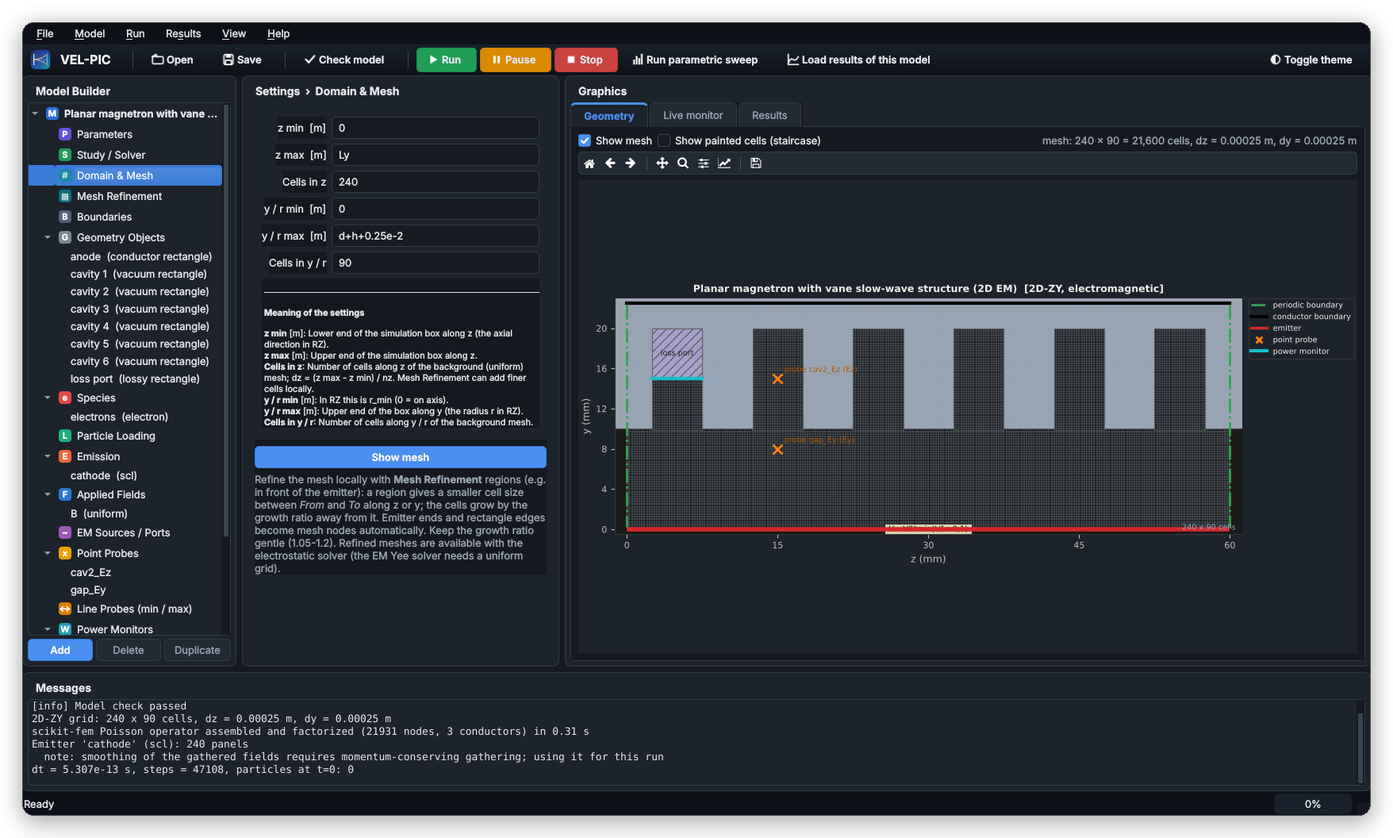
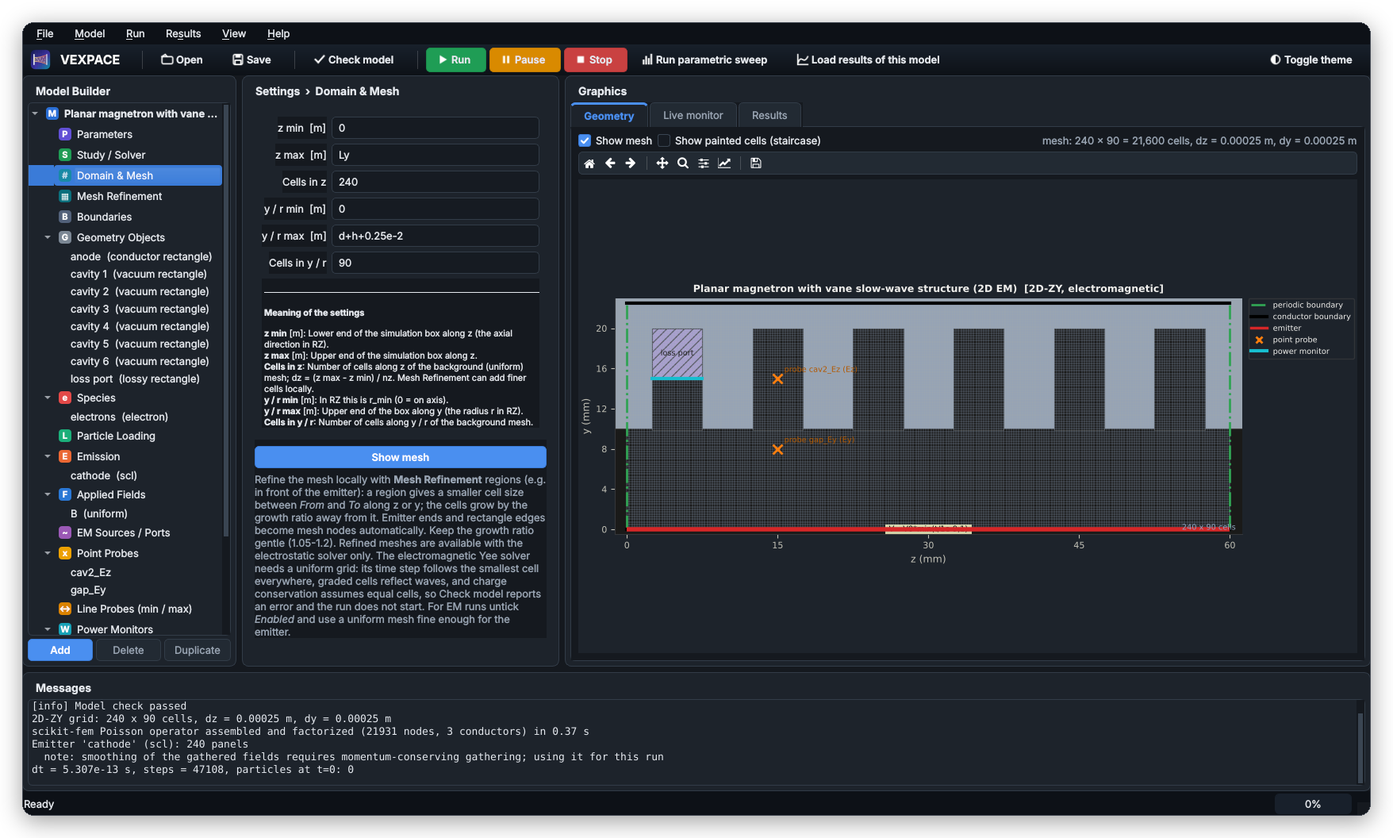
Name Update

Changed region(s): [[0.1845, 0.6562, 0.3998, 0.7812], [0.2153, 0.0625, 0.6765, 0.0938], [0.0, 0.0625, 0.1845, 0.0938]]

diff --git a/benchmarks/warpx_compare/compare_warpx.py b/benchmarks/warpx_compare/compare_warpx.py
@@ -2,7 +2,7 @@
 
 Set WARPX_BIN to the folder containing the WarpX executables (warpx.1d.*, warpx.rz.*), e.g.
     WARPX_BIN=~/src/warpx/build/bin python benchmarks/warpx_compare/compare_warpx.py
-The same physical problems are run with VEL-PIC and WarpX:
+The same physical problems are run with VEXPACE and WarpX:
     A  1D ES two-stream instability            (field-energy history)
     B  1D ES Pierce diode at J_CL               (potential profile)
     C  RZ ES space-charge beam expansion         (beam edge radius vs z)
@@ -120,7 +120,7 @@ diag1.fields_to_plot = Ez
     d = run_warpx("1d", "two_stream", wx)
     fe = np.loadtxt(os.path.join(d, "diags", "reducedfiles", "FE.txt"))
     tw, Ww = fe[:, 1], fe[:, 2]
-    # VEL-PIC
+    # VEXPACE
     m = new_model("1D-Z", "electrostatic")
     m["domain"].update(z_min="0", z_max=str(float(L)), nz="64")
     for s in ("z_min", "z_max"):
@@ -140,11 +140,11 @@ diag1.fields_to_plot = Ez
     gw, _ = fit_growth(tw, np.sqrt(Ww), 1e-3, 0.2)
     fig, ax = plt.subplots(figsize=(5.5, 3.8))
     ax.semilogy(tw * wpb, Ww, "k-", lw=2, label="WarpX")
-    ax.semilogy(tp * wpb, Wp, "r--", lw=1.5, label="VEL-PIC")
+    ax.semilogy(tp * wpb, Wp, "r--", lw=1.5, label="VEXPACE")
     ax.set_xlabel("t w_pb")
     ax.set_ylabel("field energy (J/m^2)")
     ax.legend()
-    ax.set_title("Two-stream: WarpX vs VEL-PIC")
+    ax.set_title("Two-stream: WarpX vs VEXPACE")
     sat_p, sat_w = Wp.max(), Ww.max()
     return record("16_warpx_two_stream", "WarpX comparison A: 1D ES two-stream instability",
                   [row("growth rate gamma/w_pb  (WarpX reference)", gp / wpb, gw / wpb, 0.03),
@@ -194,7 +194,7 @@ diag1.fields_to_plot = Ez rho phi
     dd = run_warpx("1d", "pierce", wx)
     f, (zc,), _ = last_plotfile(dd)
     phiw = f["phi"]
-    # VEL-PIC: beam emitter with zero energy at J_CL
+    # VEXPACE: beam emitter with zero energy at J_CL
     m = new_model("1D-Z", "electrostatic")
     m["domain"].update(z_min="0", z_max=str(float(d)), nz=str(nz))
     m["boundaries"]["z_max"]["voltage"] = str(float(V))
@@ -210,7 +210,7 @@ diag1.fields_to_plot = Ez rho phi
     fig, ax = plt.subplots(figsize=(5.5, 3.8))
     ax.plot(zp * 1e3, th, "k-", lw=2, label="theory V (z/d)^{4/3}")
     ax.plot(zc * 1e3, phiw, "b--", label="WarpX")
-    ax.plot(zp * 1e3, phip, "r:", lw=2, label="VEL-PIC")
+    ax.plot(zp * 1e3, phip, "r:", lw=2, label="VEXPACE")
     ax.set_xlabel("z (mm)")
     ax.set_ylabel("phi (V)")
     ax.legend()
@@ -275,7 +275,7 @@ diag1.fields_to_plot = rho
     den = (rho * rc[:, None]).sum(axis=0)
     with np.errstate(invalid="ignore", divide="ignore"):
         aw = np.sqrt(2 * num / den)
-    # VEL-PIC
+    # VEXPACE
     import bench_beam
     m, p = bench_beam._beam_model(False)
     m["simulation"].update(n_steps=str(nstep), t_end="1", dt=str(float(dt)))
@@ -289,13 +289,13 @@ diag1.fields_to_plot = rho
     ok = np.isfinite(ap) & np.isfinite(awi) & (zcc > 0.01) & (zcc < 0.19)
     fig, ax = plt.subplots(figsize=(6, 3.8))
     ax.plot(zc * 100, aw * 1e3, "b-", label="WarpX (from rho)")
-    ax.plot(zcc * 100, ap * 1e3, "ro", ms=3, label="VEL-PIC")
+    ax.plot(zcc * 100, ap * 1e3, "ro", ms=3, label="VEXPACE")
     zz = np.linspace(0, Lz, 200)
     ax.plot(zz * 100, env.sol(zz)[0] * 1e3, "k--", label="envelope equation")
     ax.set_xlabel("z (cm)")
     ax.set_ylabel("edge radius (mm)")
     ax.legend()
-    ax.set_title("RZ beam expansion: WarpX vs VEL-PIC")
+    ax.set_title("RZ beam expansion: WarpX vs VEXPACE")
     return record("18_warpx_rz_beam", "WarpX comparison C: RZ ES space-charge beam expansion",
                   [row("max |a_PIC/a_WarpX - 1| over z", np.abs(ap[ok] / awi[ok] - 1).max(), 0.0, 0.05,
                        absolute=True)], fig)
@@ -373,12 +373,12 @@ diag1.fields_to_plot = Ez
     Ep = np.interp(zc, zp, Ezp)
     fig, ax = plt.subplots(figsize=(6.5, 3.8))
     ax.plot((zc - zhead) / lp, Ezw / Eth, "k-", lw=2, label="WarpX")
-    ax.plot((zp - zhead) / lp, Ezp / Eth, "r--", label="VEL-PIC")
+    ax.plot((zp - zhead) / lp, Ezp / Eth, "r--", label="VEXPACE")
     ax.set_xlim(-3.5, 0.5)
     ax.set_xlabel("(z - z_head)/lambda_p")
     ax.set_ylabel("E_z / E_linear")
     ax.legend()
-    ax.set_title("Beam-driven wake: WarpX vs VEL-PIC")
+    ax.set_title("Beam-driven wake: WarpX vs VEXPACE")
     diff = np.abs(Ep[sel] - Ezw[sel]).max() / Eth
     return record("19_warpx_wakefield", "WarpX comparison D: 1D EM beam-driven plasma wakefield",
                   [row("max |Ez_PIC - Ez_WarpX| / E_lin behind bunch", diff, 0.0, 0.08, absolute=True),

diff --git a/benchmarks/warpx_compare/compare_crossed_field.py b/benchmarks/warpx_compare/compare_crossed_field.py
@@ -1,6 +1,6 @@
 """Code-to-code comparison with WarpX: smooth-bore magnetron diodes (crossed-field gaps).
 
-    E  planar crossed-field gap (2D: WarpX XZ, VEL-PIC ZY), B below and above the Hull cutoff
+    E  planar crossed-field gap (2D: WarpX XZ, VEXPACE ZY), B below and above the Hull cutoff
     F  cylindrical (coaxial) crossed-field gap (RZ), inner cathode, axial B, below and above the
        cylindrical Hull cutoff of Lovelace & Ott
 
@@ -125,7 +125,7 @@ PN.intervals = 20
         phiw = f["phi"]
         phiw = phiw.mean(axis=0) if phiw.shape[0] == len(xc) else phiw.mean(axis=1)
         tw, Nw = _warpx_count(dd)
-        # VEL-PIC (ZY; out-of-plane component x = -y of WarpX XZ)
+        # VEXPACE (ZY; out-of-plane component x = -y of WarpX XZ)
         m = new_model("2D-ZY", "electrostatic")
         m["domain"].update(z_min="0", z_max=_r(d), nz=str(nz), y_min="0", y_max=_r(Lx), ny=str(nx))
         m["boundaries"]["z_min"].update(field="conductor", voltage="0")
@@ -255,14 +255,14 @@ def _report(name, title, res, prm, xlabel, Bname, notes):
         late_p = o["tp"] > 0.45 * o["tp"][-1]
         Nw, Np = o["Nw"][late_w].mean(), o["Np"][late_p].mean()
         state = "insulated" if r > 1 else "conducting"
-        rows.append(row(f"B = {r:g} {Bname} ({state}): max |phi_VEL-PIC - phi_WarpX| / V", dphi, 0.0, 0.01,
+        rows.append(row(f"B = {r:g} {Bname} ({state}): max |phi_VEXPACE - phi_WarpX| / V", dphi, 0.0, 0.01,
                         absolute=True))
-        rows.append(row(f"B = {r:g} {Bname} ({state}): electrons in the gap, VEL-PIC / WarpX", Np / Nw, 1.0, 0.03))
+        rows.append(row(f"B = {r:g} {Bname} ({state}): electrons in the gap, VEXPACE / WarpX", Np / Nw, 1.0, 0.03))
         c = f"C{k}"
         ax[0].plot(o["zc"] * 1e3, o["phiw"] / V, "-", color=c, lw=2, alpha=0.5, label=f"WarpX, B = {r:g} {Bname}")
-        ax[0].plot(o["zp"] * 1e3, o["phip"] / V, ":", color=c, lw=2, label=f"VEL-PIC, B = {r:g} {Bname}")
+        ax[0].plot(o["zp"] * 1e3, o["phip"] / V, ":", color=c, lw=2, label=f"VEXPACE, B = {r:g} {Bname}")
         ax[1].plot(o["tw"] * 1e9, o["Nw"], "-", color=c, lw=2, alpha=0.5, label=f"WarpX, B = {r:g} {Bname}")
-        ax[1].plot(o["tp"] * 1e9, o["Np"], ":", color=c, lw=2, label=f"VEL-PIC, B = {r:g} {Bname}")
+        ax[1].plot(o["tp"] * 1e9, o["Np"], ":", color=c, lw=2, label=f"VEXPACE, B = {r:g} {Bname}")
     ax[0].set_xlabel(xlabel)
     ax[0].set_ylabel("phi / V")
     ax[0].legend(fontsize=7)
@@ -281,7 +281,7 @@ def main(which=("planar", "coax")):
                 res, prm, "z (mm)", "B_H",
                 f"V = 10 kV, d = 5 mm, Hull field B_H = {prm['BH'] * 1e3:.2f} mT (relativistic planar). Electrons "
                 f"injected at J = 0.25 J_CL with 2 eV normal energy, periodic 8-cell strip along the cathode. "
-                f"WarpX 26.09 2D (XZ, ES labframe, use_filter = 0) vs VEL-PIC 2D-ZY, same dt, shape, pusher and "
+                f"WarpX 26.09 2D (XZ, ES labframe, use_filter = 0) vs VEXPACE 2D-ZY, same dt, shape, pusher and "
                 f"energy-conserving gather. Above B_H all electrons return to the cathode (twice the charge in "
                 f"the gap, the potential depressed near the cathode). Compared after the start-up, t = 1-2.2 ns, while the "
                 f"insulated hub is still laminar (later it develops the 2D diocotron/turbulent hub in both codes).")
@@ -293,7 +293,7 @@ def main(which=("planar", "coax")):
                 f"Coaxial gap, inner cathode a = 5 mm, anode b = 10 mm, V = 10 kV, axial B. Hull field "
                 f"B* = (m c / e d_e) sqrt(gamma^2 - 1), d_e = (b^2 - a^2)/(2b) (Lovelace & Ott 1974) = "
                 f"{prm['Bs'] * 1e3:.2f} mT. Electrons injected radially at J = 0.25 J_CL(b - a), 2 eV. WarpX 26.09 RZ "
-                f"(r_min = a, ES labframe) vs VEL-PIC 2D-RZ (annular domain).")
+                f"(r_min = a, ES labframe) vs VEXPACE 2D-RZ (annular domain).")
 
 
 if __name__ == "__main__":

diff --git a/picstudio/gui/main_window.py b/picstudio/gui/main_window.py
@@ -16,7 +16,7 @@ from PySide6.QtWidgets import (QApplication, QCheckBox, QFileDialog, QFrame, QHB
                                QScrollArea, QSplitter, QTabWidget, QTreeWidget, QTreeWidgetItem, QVBoxLayout,
                                QWidget)
 
-from .. import AFFILIATION, APP_NAME, APP_TAGLINE, AUTHOR, CITATION, COPYRIGHT, DOI, LICENSE, URL, __version__
+from .. import AFFILIATION, APP_NAME, APP_SUBTITLE, APP_TAGLINE, AUTHOR, CITATION, COPYRIGHT, DOI, LICENSE, URL, __version__
 from ..model import model as M
 from ..model import schema as S
 from ..post import plotting as P
@@ -267,7 +267,7 @@ class MainWindow(QMainWindow):
         self._act(h, "User guide", lambda: self.show_guide("USER_GUIDE.md"))
         self._act(h, "Numerical methods", lambda: self.show_guide("THEORY.md"))
         self._act(h, "Validation report", self.show_validation)
-        self._act(h, "How to cite VEL-PIC", self.cite)
+        self._act(h, "How to cite VEXPACE", self.cite)
         self._act(h, "About", self.about)
 
     # ======================================================================
@@ -1012,7 +1012,7 @@ class MainWindow(QMainWindow):
         box.setWindowTitle(f"About {APP_NAME}")
         from PySide6.QtGui import QIcon
         box.setIconPixmap(QIcon(logo).pixmap(96, 96))
-        box.setText(f"<h2>{APP_NAME} {__version__}</h2><p><b>{APP_TAGLINE}</b></p>"
+        box.setText(f"<h2>{APP_NAME} {__version__}</h2><p><b>{APP_TAGLINE}</b><br>{APP_SUBTITLE}</p>"
                     "<p>Particle-in-cell simulation of diodes, beams, plasmas and vacuum electron devices in 1D (z), "
                     "2D Cartesian (z, y) and 2D axisymmetric (z, r) geometry. Electrostatic solver: finite elements "
                     "(scikit-fem). Electromagnetic solver: Yee FDTD with charge-conserving deposition.</p>"
@@ -1020,22 +1020,22 @@ class MainWindow(QMainWindow):
                     f"<p>{COPYRIGHT}. Released under the {LICENSE}.<br>"
                     "Particle kernels follow WarpX (BSD-3-Clause-LBNL); see THIRD_PARTY_NOTICES.md.</p>"
                     f"<p><a href='{URL}'>{URL}</a><br>DOI: <a href='https://doi.org/{DOI}'>{DOI}</a></p>"
-                    "<p>If you use VEL-PIC in published work, please cite it (Help &rarr; How to cite VEL-PIC).</p>")
+                    "<p>If you use VEXPACE in published work, please cite it (Help &rarr; How to cite VEXPACE).</p>")
         box.setTextFormat(Qt.RichText)
         box.exec()
 
     def cite(self):
         text = CITATION
-        bib = ("@software{faisal_velpic,\n"
+        bib = ("@software{faisal_vexpace,\n"
                "  author    = {Faisal, Md Arifuzzaman},\n"
-               "  title     = {{VEL-PIC}: Vacuum Electrodynamics and Laser Particle-in-Cell code},\n"
+               "  title     = {{VEXPACE}: An Open-Source Particle-in-Cell Simulation Framework for Plasma and Vacuum Electronics},\n"
                "  year      = {2026},\n"
                "  publisher = {Zenodo},\n"
                f"  doi       = {{{DOI}}},\n"
                f"  url       = {{https://doi.org/{DOI}}}\n}}")
         box = QMessageBox(self)
-        box.setWindowTitle("How to cite VEL-PIC")
-        box.setText("<p>If VEL-PIC contributes to published work, please cite:</p>"
+        box.setWindowTitle("How to cite VEXPACE")
+        box.setText("<p>If VEXPACE contributes to published work, please cite:</p>"
                     f"<p>{text}</p><p>BibTeX:</p><pre>{bib}</pre>")
         box.setTextFormat(Qt.RichText)
         box.setTextInteractionFlags(Qt.TextSelectableByMouse)

diff --git a/examples/make_examples.py b/examples/make_examples.py
@@ -1,4 +1,4 @@
-"""Generate the example projects (*.pic.json) shipped with VEL-PIC.
+"""Generate the example projects (*.pic.json) shipped with VEXPACE.
 
     python examples/make_examples.py
 
@@ -681,7 +681,7 @@ def beam_expansion_zy():
     m["description"] = ("A 10 keV, 1 A/m electron sheet beam (half-width 0.5 mm) enters a field-free, grounded drift "
                         "region. With no focusing field it spreads under its own space charge. The edge of a uniform sheet "
                         "feels a constant field, so y_edge = a0 + K z^2/2 with K = e I/(2 eps0 m gamma^3 v^3) = 0.047 /m: "
-                        "the rms half-width grows from 0.289 mm to 0.398 mm at z = 9 cm (VEL-PIC: 0.397 mm). Use "
+                        "the rms half-width grows from 0.289 mm to 0.398 mm at z = 9 cm (VEXPACE: 0.397 mm). Use "
                         "Results > Beam envelope.")
     m["parameters"] = {"V0": "10e3", "I": "1", "a0": "0.5e-3", "Lz": "0.1", "Ly": "6e-3"}
     m["domain"].update(z_min="0", z_max="Lz", nz="200", y_min="-Ly", y_max="Ly", ny="96")
@@ -808,7 +808,7 @@ def two_cylinder_lens_rz():
                         "Laplace solution (scikit-fem, r-weighted weak form) on a mesh refined at the gap and the "
                         "tube walls. The axial potential phi(z) and field E_z(z) are recorded by line probes. "
                         "Reference: the exact series for two coaxial cylinders with a linear potential across the "
-                        "gap (Goddard 1946; Cook & Heddle 1976); VEL-PIC agrees with it to 3e-4 V2 along the axis.")
+                        "gap (Goddard 1946; Cook & Heddle 1976); VEXPACE agrees with it to 3e-4 V2 along the axis.")
     m["parameters"] = {"V1": "0", "V2": "1e3", "R": "10e-3", "g": "0.2*R", "t": "0.1*R", "L": "6*R", "hf": "0.1e-3"}
     m["domain"].update(z_min="-L", z_max="L", nz="240", y_min="0", y_max="1.5*R", ny="60")
     bset(m, "z_min", field="conductor", voltage="V1", name="entrance")

diff --git a/picstudio/__init__.py b/picstudio/__init__.py
@@ -1,4 +1,4 @@
-"""VEL-PIC - Vacuum Electrodynamics and Laser Particle-in-Cell (Python package ``picstudio``).
+"""VEXPACE - Virtual Experiments in Plasma and Computational Electrodynamics (Python package ``picstudio``).
 
 A particle-in-cell code for 1D (z), 2D Cartesian (z,y) and 2D axisymmetric (z,r) electrostatic and
 electromagnetic simulations.
@@ -12,16 +12,17 @@ Quick use from Python::
     sim.run()
 """
 __version__ = "1.3.0"
-APP_NAME = "VEL-PIC"
-APP_TAGLINE = "Vacuum Electrodynamics and Laser Particle-in-Cell"
+APP_NAME = "VEXPACE"
+APP_TAGLINE = "Virtual Experiments in Plasma and Computational Electrodynamics"
+APP_SUBTITLE = "An Open-Source Particle-in-Cell Simulation Framework for Plasma and Vacuum Electronics"
 AUTHOR = "Md Arifuzzaman Faisal"
 AFFILIATION = "Department of Nuclear Engineering and Radiological Sciences, University of Michigan, Ann Arbor, MI, USA"
 COPYRIGHT = "Copyright (c) 2026 Md Arifuzzaman Faisal"
 LICENSE = "BSD 3-Clause License"
-URL = "https://github.com/faisal-um-ners/VEL-PIC"
+URL = "https://github.com/faisal-um-ners/VEXPACE"
 DOI = "10.5281/zenodo.23512470"          # Zenodo concept DOI: all versions, resolves to the latest release
-CITATION = ("Faisal, M. A. (2026). VEL-PIC: Vacuum Electrodynamics and Laser Particle-in-Cell code "
-            "[Computer software]. Zenodo. https://doi.org/10.5281/zenodo.23512470")
+CITATION = ("Faisal, M. A. (2026). VEXPACE: An Open-Source Particle-in-Cell Simulation Framework for Plasma and "
+            "Vacuum Electronics [Computer software]. Zenodo. https://doi.org/10.5281/zenodo.23512470")
 
 
 def load_model(path):

diff --git a/picstudio/fields/circuit.py b/picstudio/fields/circuit.py
@@ -3,7 +3,7 @@
 In a Yee FDTD solver a PEC conductor is *isolated*: its total charge only changes when particles
 are absorbed on it or emitted from it, so as current flows from cathode to anode the gap capacitor
 discharges and the electrode voltages drift.  A real diode or magnetron is driven by a power supply
-that keeps every electrode at its potential.  VEL-PIC models that supply as an ideal (zero-impedance)
+that keeps every electrode at its potential.  VEXPACE models that supply as an ideal (zero-impedance)
 voltage source on each conductor:
 
   * the applied electrode voltages are carried by the electrostatic Laplace solution, superposed on

diff --git a/picstudio/gui/theme.py b/picstudio/gui/theme.py
@@ -1,4 +1,4 @@
-"""Visual theme of the VEL-PIC GUI: Qt style sheets (light / dark), icons and the matching
+"""Visual theme of the VEXPACE GUI: Qt style sheets (light / dark), icons and the matching
 matplotlib style.  Categorical colours follow a validated colour-blind-safe palette."""
 from __future__ import annotations
 

diff --git a/picstudio/model/schema.py b/picstudio/model/schema.py
@@ -1,4 +1,4 @@
-"""Model schema: every input of VEL-PIC is described here.
+"""Model schema: every input of VEXPACE is described here.
 
 The same description drives
   * default values and validation (``picstudio.model.model``),

diff --git a/docs/COMPARISON.md b/docs/COMPARISON.md
@@ -1,10 +1,10 @@
-# VEL-PIC compared with other PIC codes
+# VEXPACE compared with other PIC codes
 
 ## Feature overview
 
 The entries for the other codes reflect their public documentation as generally known. Check each code's own documentation for current details.
 
-| | **VEL-PIC** | WarpX | XOOPIC | MAGIC (2D) |
+| | **VEXPACE** | WarpX | XOOPIC | MAGIC (2D) |
 |---|---|---|---|---|
 | Language / install | Pure Python + Numba, `pip install` | C++/AMReX (+ Python PICMI), compiled | C++, X11 GUI, compiled | Commercial, Windows |
 | Geometries | 1D-Z, 2D-ZY, 2D-RZ | 1D, 2D-XZ, RZ (multi-mode), 3D | 2D XY, RZ | 2D XY / RZ / Rθ, 3D (MAGIC3D) |
@@ -19,24 +19,24 @@ The entries for the other codes reflect their public documentation as generally 
 
 ## Algorithm-by-algorithm comparison with WarpX
 
-WarpX is open source (BSD-3-Clause-LBNL). VEL-PIC uses its algorithms as the reference wherever the two codes overlap. The particle kernels are line-by-line Python/Numba translations of WarpX's, and the license notice is kept in `picstudio/particles/kernels.py`. The table compares VEL-PIC with the WarpX 26.09 source (`Source/…`).
+WarpX is open source (BSD-3-Clause-LBNL). VEXPACE uses its algorithms as the reference wherever the two codes overlap. The particle kernels are line-by-line Python/Numba translations of WarpX's, and the license notice is kept in `picstudio/particles/kernels.py`. The table compares VEXPACE with the WarpX 26.09 source (`Source/…`).
 
-| Component | WarpX | VEL-PIC | Verdict |
+| Component | WarpX | VEXPACE | Verdict |
 |---|---|---|---|
 | Yee FDTD, Cartesian 1D/2D | `EvolveB/E.cpp`, `CartesianYeeAlgorithm.H` | `fields/fdtd.py`, `fdtd_kernels.py` | **identical** (same staggering and stencils; ZY uses a left-handed (z, y, x) basis with matching curl signs) |
 | Yee FDTD, RZ m = 0, off axis | `CylindricalYeeAlgorithm.H` (`UpwardDrr_over_r`, `DownwardDrr_over_r`) | same kernels, `rz=True` | **identical** |
-| RZ on-axis E_z | 4·B_θ/dr with the π·dr²/3 axis volume | 3·B_θ/dr with the same volume (Verboncoeur 2001, exact discrete Gauss law on the axis); 4 if *RZ axis volume correction* is off | **different, documented**: VEL-PIC keeps the Gauss-consistent factor |
-| Loop order | push, deposit, filter J, B½, E, B½ (`OneStep_nosub`) | push, boundaries, emission, deposit, (filter J), B½, E, B½ | **equivalent**. WarpX applies particle boundaries/injection after the field solve, VEL-PIC before deposition, so absorbed particles deposit up to the wall. |
-| Time step, EM | `ComputeDt`, RZ uses the 1.2105/dr² limit, cfl 0.999 | same formulas (RZ 1.2105/dr² term), default cfl 0.95 | **identical** formula; VEL-PIC's default CFL is more conservative |
-| Esirkepov current deposition (1D, 2D, RZ) | `doEsirkepovDepositionShapeN` + RZ volume scaling | `kernels.esirkepov_*` | **identical** for linear shape (VEL-PIC: linear/CIC only) |
+| RZ on-axis E_z | 4·B_θ/dr with the π·dr²/3 axis volume | 3·B_θ/dr with the same volume (Verboncoeur 2001, exact discrete Gauss law on the axis); 4 if *RZ axis volume correction* is off | **different, documented**: VEXPACE keeps the Gauss-consistent factor |
+| Loop order | push, deposit, filter J, B½, E, B½ (`OneStep_nosub`) | push, boundaries, emission, deposit, (filter J), B½, E, B½ | **equivalent**. WarpX applies particle boundaries/injection after the field solve, VEXPACE before deposition, so absorbed particles deposit up to the wall. |
+| Time step, EM | `ComputeDt`, RZ uses the 1.2105/dr² limit, cfl 0.999 | same formulas (RZ 1.2105/dr² term), default cfl 0.95 | **identical** formula; VEXPACE's default CFL is more conservative |
+| Esirkepov current deposition (1D, 2D, RZ) | `doEsirkepovDepositionShapeN` + RZ volume scaling | `kernels.esirkepov_*` | **identical** for linear shape (VEXPACE: linear/CIC only) |
 | J filter | bilinear 1-2-1, on by default in Cartesian EM (`warpx.use_filter`) | *Current filter passes* (`current_filter`), default 0 | **identical** when enabled (benchmark 29; Gauss law exact for the filtered charge, unit test) |
 | Field gather | `doGatherShapeN`, energy-conserving (Galerkin) by default | `gather_ec_yee_*` (EM default), `gather_nodal_*` | **identical** in EM. ES default is momentum-conserving: the Gauss-law SCL emitter is 2–4 % more accurate with it (see THEORY §3); EC is available. |
 | Pushers Boris / Vay / Higuera–Cary, −dt/2 start, RZ rotation | `UpdateMomentum*.H`, `UpdatePosition.H`, `PushP(-dt/2)` | `kernels._momentum`, `push_fields_*` | **identical** (benchmark 26: 1e-8…1e-15) |
 | Field boundaries | PEC (`WarpX_PEC.cpp`), periodic, split-field PML outside the domain (not in RZ FDTD), Silver–Müller | PEC, PMC, periodic; graded matched-loss absorbing layer inside the domain (also in RZ) | PEC/periodic **equivalent**; absorber **different** (more reflection at oblique incidence than a PML; benchmark 11) |
-| Particle boundaries | absorb, reflect, periodic, thermal (`ParticleBoundaries_K.H`) | absorb (with the current deposited up to the wall), reflect, periodic | **equivalent** (no thermal reflection in VEL-PIC) |
+| Particle boundaries | absorb, reflect, periodic, thermal (`ParticleBoundaries_K.H`) | absorb (with the current deposited up to the wall), reflect, periodic | **equivalent** (no thermal reflection in VEXPACE) |
 | Laser antenna | antenna macro-particles depositing J (`LaserParticleContainer`), Gaussian profile with 1/e field duration, cos phase | current sheet J = −2ε0·c·E at a node (`sources/em_sources.py`), FWHM-intensity duration, sin phase | **different implementation**, same emitted sheet strength. Convert τ_WarpX = τ_FWHM/√(2 ln 2) when comparing. |
 | Electrostatic solver | MLMG finite differences (5-point) | scikit-fem FEM (Q1, r-weighted), direct LU, conductors/dielectrics painted | **different** (both 2nd order; benchmarks 01, 17, 18 agree with WarpX) |
-| Emission | flux injection only (`AddPlasmaFlux`) | Gauss-law SCL, Fowler–Nordheim, thermionic + Schottky, photo, beam (charge-conserving) | **VEL-PIC only** |
+| Emission | flux injection only (`AddPlasmaFlux`) | Gauss-law SCL, Fowler–Nordheim, thermionic + Schottky, photo, beam (charge-conserving) | **VEXPACE only** |
 | Initial fields | zero unless `initialize_self_fields` | ES: Poisson; EM: Poisson-initialised by default (`initial_field = none` for WarpX-like start) | **different default**, selectable |
 
 A complete line-by-line translation of WarpX is not possible: WarpX is about 300 000 lines of C++ on AMReX (adaptive mesh refinement, GPU kernels, distributed boxes). The physics kernels above are what decides the numerics, and they match.
@@ -55,7 +55,7 @@ Identical problems were run with WarpX 26.09, built from source with the 1D, 2D 
 | planar smooth-bore magnetron gap (2D, B = 0.6 and 1.3 B_H) | potential across the gap, electrons in the gap | ≤ 1.2e-4 of V, ≤ 0.02 % |
 | cylindrical (coaxial) smooth-bore magnetron gap (RZ, B = 0.6 and 1.3 B*) | potential across the gap, electrons in the gap | ≤ 1e-6 of V, ≤ 0.01 % |
 
-In the crossed-field comparisons (benchmarks 30, 31) WarpX's RZ solver needs r_min = 0, so its inner cathode is an embedded boundary held at −V; VEL-PIC uses an annular domain. Both codes inject the same electron flux, use linear shape functions, the Boris pusher, energy-conserving gather and the same time step.
+In the crossed-field comparisons (benchmarks 30, 31) WarpX's RZ solver needs r_min = 0, so its inner cathode is an embedded boundary held at −V; VEXPACE uses an annular domain. Both codes inject the same electron flux, use linear shape functions, the Boris pusher, energy-conserving gather and the same time step.
 
 XOOPIC and MAGIC are compared through published laws that those codes are commonly benchmarked against:
 

diff --git a/docs/THEORY.md b/docs/THEORY.md
@@ -1,10 +1,10 @@
-# VEL-PIC: numerical methods
+# VEXPACE: numerical methods
 
 ## 1. Mesh and coordinates
 
 The mesh is a structured tensor-product grid, uniform (dz, dy) or graded/refined along z and y (electrostatic solver). Particles are pushed and deposited in logical coordinates (the fractional node index), where every cell has unit size, so the bilinear weights are the Q1 shape functions of the physical cell.
 
-**Why abrupt cell-size jumps are avoided.** The electromagnetic (Yee) solver runs on a uniform grid; a refined mesh with the electromagnetic solver is a model-check error. Three reasons: (i) the Courant limit of the explicit Yee update is set by the smallest cell and applies to the whole domain, so a 10 µm band on a 78 µm grid would shorten every step about eightfold; (ii) the staggered update is second-order only for equal cells: on a stretched grid it drops to first order, and a change of cell size reflects waves and changes the numerical dispersion; (iii) the Esirkepov deposition and the held-electrode correction (discrete harmonic functions of the Yee operator) are written for equal cells. Codes that refine electromagnetic grids (e.g. WarpX) use separate refinement patches with buffer and absorbing layers, which VEL-PIC does not provide. In the electrostatic solver a jump lowers the local accuracy of the finite-element solution, adds a self-force on particles crossing it and changes the particle statistics per cell. The tensor axes are therefore graded geometrically (growth ratio 1.05–1.2 recommended; the model check warns above 1.3), with grid lines continuous across the domain.
+**Why abrupt cell-size jumps are avoided.** The electromagnetic (Yee) solver runs on a uniform grid; a refined mesh with the electromagnetic solver is a model-check error. Three reasons: (i) the Courant limit of the explicit Yee update is set by the smallest cell and applies to the whole domain, so a 10 µm band on a 78 µm grid would shorten every step about eightfold; (ii) the staggered update is second-order only for equal cells: on a stretched grid it drops to first order, and a change of cell size reflects waves and changes the numerical dispersion; (iii) the Esirkepov deposition and the held-electrode correction (discrete harmonic functions of the Yee operator) are written for equal cells. Codes that refine electromagnetic grids (e.g. WarpX) use separate refinement patches with buffer and absorbing layers, which VEXPACE does not provide. In the electrostatic solver a jump lowers the local accuracy of the finite-element solution, adds a self-force on particles crossing it and changes the particle statistics per cell. The tensor axes are therefore graded geometrically (growth ratio 1.05–1.2 recommended; the model check warns above 1.3), with grid lines continuous across the domain.
 
 Nodes are indexed `[iz]` in 1D and `[iz, iy]` in 2D. In RZ the second coordinate is the radius r, and either r_min = 0 (on axis) or r_min > 0 (annular domain).
 
@@ -90,7 +90,7 @@ Static electrode voltages in EM runs are added as the Laplace field of the condu
 
 **Electrode voltages in EM runs (ideal voltage sources).** In a Yee solver a PEC conductor is isolated: its total charge changes only when particles are absorbed on it or emitted from it. As current flows from cathode to anode the gap capacitor would discharge and the electrode potentials would drift.
 
-VEL-PIC connects every conductor to an ideal (zero-impedance) voltage source (`em_conductors = held`, the default):
+VEXPACE connects every conductor to an ideal (zero-impedance) voltage source (`em_conductors = held`, the default):
 
 * The applied voltages are carried by the electrostatic Laplace solution, superposed on the fields seen by the particles.
 * After every field update, the Yee field is corrected to keep each electrode at zero potential (`fields/circuit.py`). The steps are:

diff --git a/docs/USER_GUIDE.md b/docs/USER_GUIDE.md
@@ -1,4 +1,4 @@
-# VEL-PIC user guide
+# VEXPACE user guide
 
 ## 1. Start
 
@@ -51,7 +51,7 @@ Use **File → Examples** to open a ready-made model. **Save as…** copies it t
    * **Line Probes (min / max):** sample a quantity along a line every history step and record its average (`probe_<name>_avg`), its minimum and/or maximum, *and where they occur*. *Line along z*, *at y / r*, *from*, *to* defines the line (or along y at a fixed z). Example: name `phi`, quantity phi, record min, along z at y = 0 from 0 to d. This gives `probe_phi_min` (the virtual-cathode depth, V) and `probe_phi_zmin` (its position, m); *max* adds `probe_phi_max` and `probe_phi_zmax`. The extremum is refined between samples by a parabola. In the live monitor, choose **Field: line: phi** to watch the whole profile φ(z) with the minimum marked. The line is drawn dashed on the 2D field map. Parts of the line inside a conductor are skipped (no field exists in a PEC): the average is taken over the vacuum part only and the min/max are searched there; the conductor surface is included.
    * **Power Monitors:** the Poynting power through a line, for example a magnetron loss port.
 12. **Output.** Set the history, field and particle snapshot intervals and the live-plot interval.
-13. **Parallel.** Choose serial, threads (the default: all cores in one process) or **mpi**. With mpi, set *MPI processes (ranks)*; **Run** then starts `mpiexec -n <ranks>` itself. MPI needs `mpi4py` and an MPI library in VEL-PIC's Python environment: `python -m pip install mpi4py mpich`, or Homebrew `open-mpi` on macOS, or Microsoft MPI on Windows. The particles are divided among the ranks, but every rank repeats the field solve, so MPI pays off for runs with many particles per cell. For small meshes with few particles, threads is usually as fast.
+13. **Parallel.** Choose serial, threads (the default: all cores in one process) or **mpi**. With mpi, set *MPI processes (ranks)*; **Run** then starts `mpiexec -n <ranks>` itself. MPI needs `mpi4py` and an MPI library in VEXPACE's Python environment: `python -m pip install mpi4py mpich`, or Homebrew `open-mpi` on macOS, or Microsoft MPI on Windows. The particles are divided among the ranks, but every rank repeats the field solve, so MPI pays off for runs with many particles per cell. For small meshes with few particles, threads is usually as fast.
 14. **Parametric Sweep.** Give a parameter name and its values, for example `linspace(0.6, 1.3, 8)`, and the number of workers.
 
 Every settings form ends with a **Meaning of the settings** paragraph. It explains each input that is currently shown, and it updates when a choice reveals new inputs. The same text appears as a tooltip on each field.
